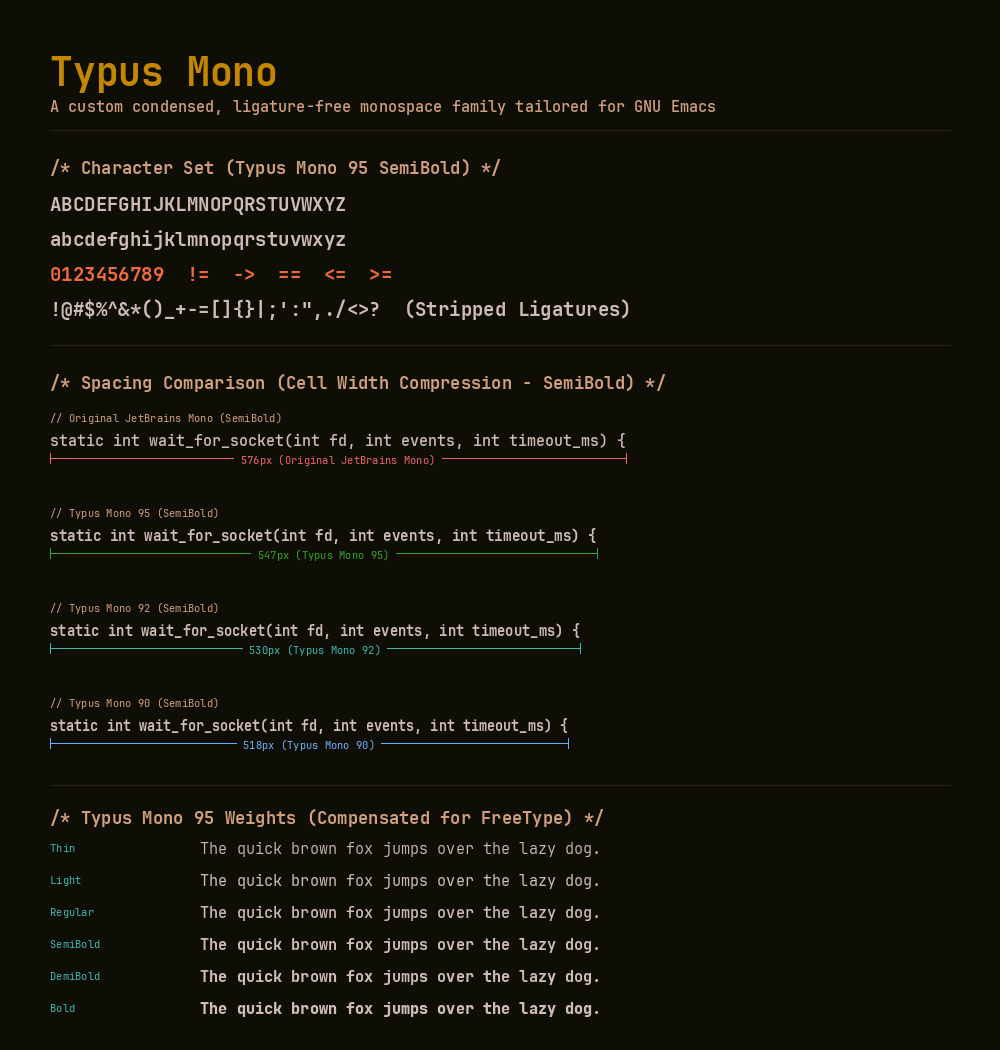
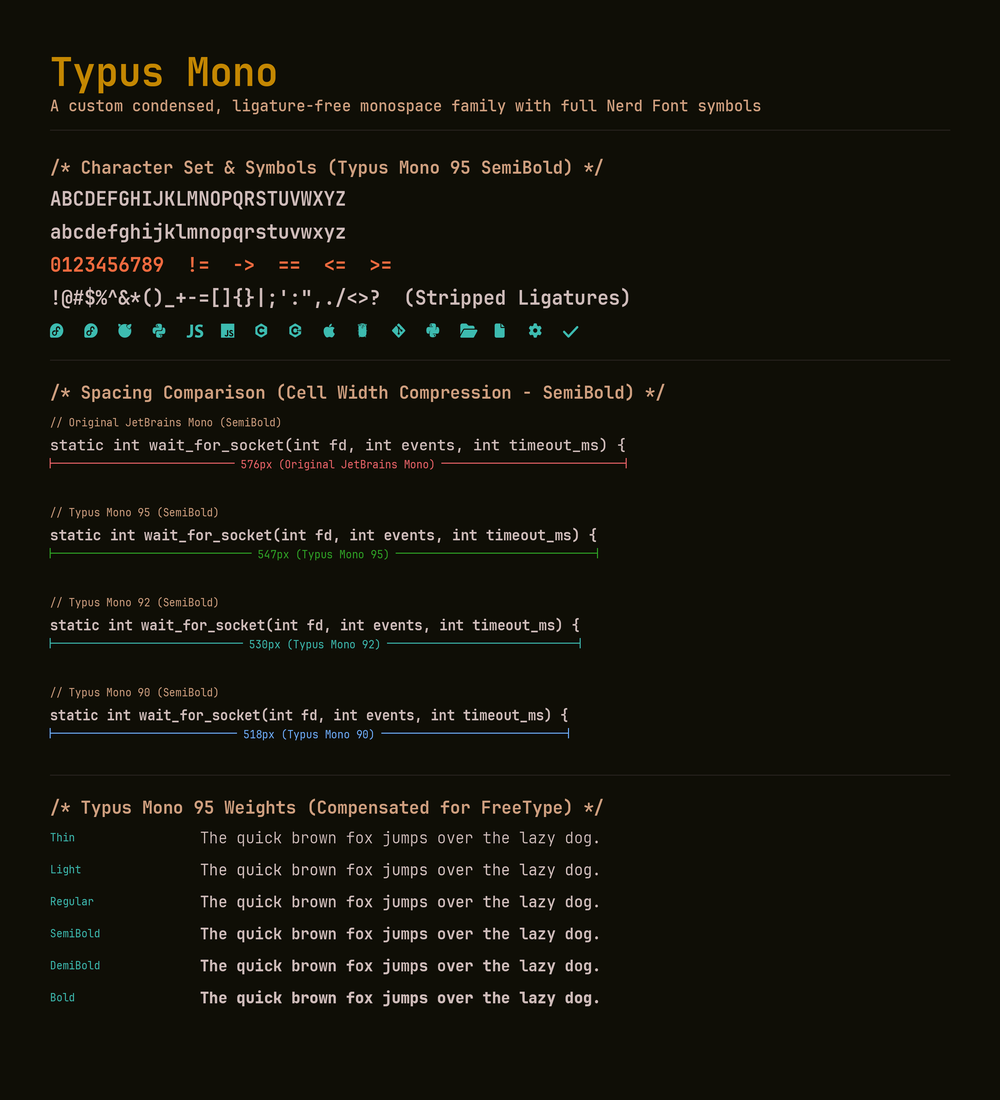
docs: enhance specimens with 3x supersampling, add anatomy grid
... and update README

- Add 3x sampling with Lanczos downsampling to generate_specimen.py
  for Retina rendering
- Add generate_grid_specimen.py creating grid_specimen.png (1000x1100)
  with 3x3 close-up terminal cell anatomy for Typus Mono
- Update README.md with side-by-side 50:50 preview and grid specimen
  display

Changed region(s): [[0.031, 0.3352, 0.682, 0.9752], [0.031, 0.061, 0.744, 0.3048]]

diff --git a/generate_specimen.py b/generate_specimen.py
@@ -43,19 +43,46 @@ def main():
     font_sb_92_path = os.path.join(repo_dir, "fonts/TypusMono92-SemiBold.ttf")
     font_sb_90_path = os.path.join(repo_dir, "fonts/TypusMono90-SemiBold.ttf")
 
-    title_font = ImageFont.truetype(font_sb_path, 40)
-    tagline_font = ImageFont.truetype(font_reg_path, 16)
-    section_title_font = ImageFont.truetype(font_sb_path, 18)
-    char_font = ImageFont.truetype(
-        font_sb_path, 20
-    )  # SemiBold for character set preview
+    S = 3  # 3x supersampling
+    base_w, base_h = 1000, 1100
+    w, h = base_w * S, base_h * S
 
-    code_font_orig = ImageFont.truetype(orig_path, 15)
-    code_font_typus_95 = ImageFont.truetype(font_sb_95_path, 15)
-    code_font_typus_92 = ImageFont.truetype(font_sb_92_path, 15)
-    code_font_typus_90 = ImageFont.truetype(font_sb_90_path, 15)
+    def draw_ruler_scaled(
+        draw, x, y, width, label, color_line="#4a5568", color_text="#a0aec0", font=None
+    ):
+        draw.line([(x, y), (x + width, y)], fill=color_line, width=1 * S)
+        draw.line([(x, y - 5 * S), (x, y + 5 * S)], fill=color_line, width=1 * S)
+        draw.line(
+            [(x + width, y - 5 * S), (x + width, y + 5 * S)],
+            fill=color_line,
+            width=1 * S,
+        )
+        text_w = draw.textlength(label, font=font)
+        draw.rectangle(
+            [
+                (x + width / 2 - text_w / 2 - 6 * S, y - 8 * S),
+                (x + width / 2 + text_w / 2 + 6 * S, y + 8 * S),
+            ],
+            fill="#0f0e06",
+        )
+        draw.text(
+            (x + width / 2 - text_w / 2, y - 6 * S),
+            label,
+            fill=color_text,
+            font=font,
+        )
 
-    ruler_font = ImageFont.truetype(font_light_path, 11)
+    title_font = ImageFont.truetype(font_sb_path, 40 * S)
+    tagline_font = ImageFont.truetype(font_reg_path, 16 * S)
+    section_title_font = ImageFont.truetype(font_sb_path, 18 * S)
+    char_font = ImageFont.truetype(font_sb_path, 20 * S)
+
+    code_font_orig = ImageFont.truetype(orig_path, 15 * S)
+    code_font_typus_95 = ImageFont.truetype(font_sb_95_path, 15 * S)
+    code_font_typus_92 = ImageFont.truetype(font_sb_92_path, 15 * S)
+    code_font_typus_90 = ImageFont.truetype(font_sb_90_path, 15 * S)
+
+    ruler_font = ImageFont.truetype(font_light_path, 11 * S)
 
     bg_color = "#0f0e06"
     fg_color = "#cfbcba"
@@ -68,23 +95,23 @@ def main():
     green_accent = "#2fa526"
     border_color = "#26211d"
 
-    img = Image.new("RGB", (1000, 1050), color=bg_color)
+    img = Image.new("RGB", (w, h), color=bg_color)
     draw = ImageDraw.Draw(img)
 
     # header
-    draw.text((50, 45), "Typus Mono", fill=keyword_color, font=title_font)
+    draw.text((50 * S, 45 * S), "Typus Mono", fill=keyword_color, font=title_font)
     draw.text(
-        (50, 95),
-        "A custom condensed, ligature-free monospace family tailored for GNU Emacs",
+        (50 * S, 95 * S),
+        "A custom condensed, ligature-free monospace family with full Nerd Font symbols",
         fill=comment_color,
         font=tagline_font,
     )
-    draw.line([(50, 130), (950, 130)], fill=border_color, width=1)
+    draw.line([(50 * S, 130 * S), (950 * S, 130 * S)], fill=border_color, width=1 * S)
 
     # character set
     draw.text(
-        (50, 155),
-        "/* Character Set (Typus Mono 95 SemiBold) */",
+        (50 * S, 155 * S),
+        "/* Character Set & Symbols (Typus Mono 95 SemiBold) */",
         fill=comment_color,
         font=section_title_font,
     )
@@ -92,17 +119,19 @@ def main():
     chars_line2 = "abcdefghijklmnopqrstuvwxyz"
     chars_line3 = "0123456789  !=  ->  ==  <=  >="
     chars_line4 = "!@#$%^&*()_+-=[]{}|;':\",./<>?  (Stripped Ligatures)"
+    chars_line5 = "                              "
 
-    draw.text((50, 190), chars_line1, fill=fg_color, font=char_font)
-    draw.text((50, 225), chars_line2, fill=fg_color, font=char_font)
-    draw.text((50, 260), chars_line3, fill=string_color, font=char_font)
-    draw.text((50, 295), chars_line4, fill=fg_color, font=char_font)
+    draw.text((50 * S, 185 * S), chars_line1, fill=fg_color, font=char_font)
+    draw.text((50 * S, 218 * S), chars_line2, fill=fg_color, font=char_font)
+    draw.text((50 * S, 251 * S), chars_line3, fill=string_color, font=char_font)
+    draw.text((50 * S, 284 * S), chars_line4, fill=fg_color, font=char_font)
+    draw.text((50 * S, 317 * S), chars_line5, fill=teal_color, font=char_font)
 
-    draw.line([(50, 345), (950, 345)], fill=border_color, width=1)
+    draw.line([(50 * S, 360 * S), (950 * S, 360 * S)], fill=border_color, width=1 * S)
 
     # spacing comparision
     draw.text(
-        (50, 370),
+        (50 * S, 380 * S),
         "/* Spacing Comparison (Cell Width Compression - SemiBold) */",
         fill=comment_color,
         font=section_title_font,
@@ -112,19 +141,19 @@ def main():
 
     # JetBrains Mono
     draw.text(
-        (50, 410),
+        (50 * S, 415 * S),
         "// Original JetBrains Mono (SemiBold)",
         fill=comment_color,
         font=ruler_font,
     )
-    draw.text((50, 430), code_line, fill=fg_color, font=code_font_orig)
+    draw.text((50 * S, 435 * S), code_line, fill=fg_color, font=code_font_orig)
     orig_w = int(draw.textlength(code_line, font=code_font_orig))
-    draw_ruler(
+    draw_ruler_scaled(
         draw,
-        50,
-        458,
+        50 * S,
+        463 * S,
         orig_w,
-        f"{orig_w}px (Original JetBrains Mono)",
+        f"{orig_w // S}px (Original JetBrains Mono)",
         color_line=red_accent,
         color_text=red_accent,
         font=ruler_font,
@@ -132,16 +161,19 @@ def main():
 
     # Typus Mono 95
     draw.text(
-        (50, 505), "// Typus Mono 95 (SemiBold)", fill=comment_color, font=ruler_font
+        (50 * S, 505 * S),
+        "// Typus Mono 95 (SemiBold)",
+        fill=comment_color,
+        font=ruler_font,
     )
-    draw.text((50, 525), code_line, fill=fg_color, font=code_font_typus_95)
+    draw.text((50 * S, 525 * S), code_line, fill=fg_color, font=code_font_typus_95)
     w_95 = int(draw.textlength(code_line, font=code_font_typus_95))
-    draw_ruler(
+    draw_ruler_scaled(
         draw,
-        50,
-        553,
+        50 * S,
+        553 * S,
         w_95,
-        f"{w_95}px (Typus Mono 95)",
+        f"{w_95 // S}px (Typus Mono 95)",
         color_line=green_accent,
         color_text=green_accent,
         font=ruler_font,
@@ -149,16 +181,19 @@ def main():
 
     # Typus Mono 92
     draw.text(
-        (50, 600), "// Typus Mono 92 (SemiBold)", fill=comment_color, font=ruler_font
+        (50 * S, 595 * S),
+        "// Typus Mono 92 (SemiBold)",
+        fill=comment_color,
+        font=ruler_font,
     )
-    draw.text((50, 620), code_line, fill=fg_color, font=code_font_typus_92)
+    draw.text((50 * S, 615 * S), code_line, fill=fg_color, font=code_font_typus_92)
     w_92 = int(draw.textlength(code_line, font=code_font_typus_92))
-    draw_ruler(
+    draw_ruler_scaled(
         draw,
-        50,
-        648,
+        50 * S,
+        643 * S,
         w_92,
-        f"{w_92}px (Typus Mono 92)",
+        f"{w_92 // S}px (Typus Mono 92)",
         color_line=teal_color,
         color_text=teal_color,
         font=ruler_font,
@@ -166,26 +201,29 @@ def main():
 
     # Typus Mono 90
     draw.text(
-        (50, 695), "// Typus Mono 90 (SemiBold)", fill=comment_color, font=ruler_font
+        (50 * S, 685 * S),
+        "// Typus Mono 90 (SemiBold)",
+        fill=comment_color,
+        font=ruler_font,
     )
-    draw.text((50, 715), code_line, fill=fg_color, font=code_font_typus_90)
+    draw.text((50 * S, 705 * S), code_line, fill=fg_color, font=code_font_typus_90)
     w_90 = int(draw.textlength(code_line, font=code_font_typus_90))
-    draw_ruler(
+    draw_ruler_scaled(
         draw,
-        50,
-        743,
+        50 * S,
+        733 * S,
         w_90,
-        f"{w_90}px (Typus Mono 90)",
+        f"{w_90 // S}px (Typus Mono 90)",
         color_line=blue_accent,
         color_text=blue_accent,
         font=ruler_font,
     )
 
-    draw.line([(50, 785), (950, 785)], fill=border_color, width=1)
+    draw.line([(50 * S, 775 * S), (950 * S, 775 * S)], fill=border_color, width=1 * S)
 
     # weight showcase
     draw.text(
-        (50, 805),
+        (50 * S, 795 * S),
         "/* Typus Mono 95 Weights (Compensated for FreeType) */",
         fill=comment_color,
         font=section_title_font,
@@ -200,17 +238,16 @@ def main():
         ("Bold", font_bold_path, fg_color),
     ]
 
-    y_offset = 840
+    y_offset = 830 * S
     for w_name, w_path, w_color in weights_info:
-        w_font = ImageFont.truetype(w_path, 16)
-        # weight name on the left
-        draw.text((50, y_offset), w_name, fill=teal_color, font=ruler_font)
-        # pangram on the right
+        w_font = ImageFont.truetype(w_path, 16 * S)
+        draw.text((50 * S, y_offset), w_name, fill=teal_color, font=ruler_font)
         sample_text = "The quick brown fox jumps over the lazy dog."
-        draw.text((200, y_offset - 3), sample_text, fill=w_color, font=w_font)
-        y_offset += 32
+        draw.text((200 * S, y_offset - 3 * S), sample_text, fill=w_color, font=w_font)
+        y_offset += 32 * S
 
-    img.save(output_path)
+    final_img = img.resize((base_w, base_h), Image.Resampling.LANCZOS)
+    final_img.save(output_path, quality=95)
     print("Preview generated successfully!")
 
 

diff --git a/generate_grid_specimen.py b/generate_grid_specimen.py
@@ -1,0 +1,126 @@
+#!/usr/bin/env python3
+"""
+Generate a 3x3 close-up monospace cell grid specimen for Typus Mono.
+Showcases character anatomy, baseline alignment, and cell proportions
+across 'T', 'y', 'p', 'u', 's', 'M', 'o', 'n', 'o' in a 1000x1100 layout.
+"""
+
+import os
+from PIL import Image, ImageDraw, ImageFont
+
+
+def main():
+    repo_dir = os.path.expanduser("~/Dokumenty/GitHub/typus-fonts")
+    font_path = os.path.join(repo_dir, "fonts/TypusMono92-Regular.ttf")
+    font_bold_path = os.path.join(repo_dir, "fonts/TypusMono92-Bold.ttf")
+    output_path = os.path.join(repo_dir, "grid_specimen.png")
+
+    S = 3
+    BASE_W, BASE_H = 1000, 1100
+    W, H = BASE_W * S, BASE_H * S
+
+    img = Image.new("RGB", (W, H), color="#0f0e06")
+    draw = ImageDraw.Draw(img)
+
+    header_font = ImageFont.truetype(font_bold_path, 32 * S)
+    sub_font = ImageFont.truetype(font_path, 15 * S)
+    guide_font = ImageFont.truetype(font_path, 12 * S)
+
+    draw.text(
+        (50 * S, 45 * S),
+        "Typus Mono 92 // Glyph Anatomy Grid",
+        fill="#c48702",
+        font=header_font,
+    )
+    draw.text(
+        (50 * S, 95 * S),
+        'Close-up monospace cell alignment across "T y p u s M o n o" (Semi-Condensed)',
+        fill="#cf9f7f",
+        font=sub_font,
+    )
+    draw.line([(50 * S, 130 * S), (950 * S, 130 * S)], fill="#26211d", width=1 * S)
+
+    grid_x0 = 50 * S
+    grid_y0 = 160 * S
+    grid_w = 900 * S
+    grid_h = 880 * S
+
+    cols, rows = 3, 3
+    gap = 16 * S
+    cell_w = (grid_w - (cols - 1) * gap) // cols
+    cell_h = (grid_h - (rows - 1) * gap) // rows
+
+    letters = [["T", "y", "p"], ["u", "s", "M"], ["o", "n", "o"]]
+
+    font_size = 190 * S
+    letter_font = ImageFont.truetype(font_path, font_size)
+
+    cell_bg = "#14120a"
+    cell_border = "#2c251d"
+    guide_color = "#383028"
+    baseline_guide = "#284d38"
+    text_color = "#f5efe0"
+
+    for r in range(rows):
+        for c in range(cols):
+            char = letters[r][c]
+            x0 = grid_x0 + c * (cell_w + gap)
+            y0 = grid_y0 + r * (cell_h + gap)
+            x1 = x0 + cell_w
+            y1 = y0 + cell_h
+
+            draw.rectangle(
+                [x0, y0, x1, y1], fill=cell_bg, outline=cell_border, width=1 * S
+            )
+
+            baseline_y = y0 + round(cell_h * 0.73)
+            cap_y = baseline_y - round(font_size * 0.70)
+
+            draw.line(
+                [(x0 + 8 * S, cap_y), (x1 - 8 * S, cap_y)],
+                fill=guide_color,
+                width=1 * S,
+            )
+            draw.line(
+                [(x0 + 8 * S, baseline_y), (x1 - 8 * S, baseline_y)],
+                fill=baseline_guide,
+                width=1 * S,
+            )
+
+            char_w = draw.textlength(char, font=letter_font)
+            char_x = x0 + (cell_w - char_w) / 2.0
+
+            draw.text(
+                (char_x, baseline_y),
+                char,
+                fill=text_color,
+                font=letter_font,
+                anchor="ls",
+            )
+
+            draw.text(
+                (x0 + 12 * S, y0 + 10 * S),
+                f"U+{ord(char):04X}",
+                fill="#c48702",
+                font=guide_font,
+            )
+            draw.text(
+                (x1 - 65 * S, y0 + 10 * S),
+                "552 UPM",
+                fill="#3dbbb0",
+                font=guide_font,
+            )
+            draw.text(
+                (x0 + 12 * S, baseline_y + 4 * S),
+                "baseline",
+                fill="#3d7350",
+                font=guide_font,
+            )
+
+    final_img = img.resize((BASE_W, BASE_H), Image.Resampling.LANCZOS)
+    final_img.save(output_path, quality=95)
+    print(f"Grid specimen ({BASE_W}x{BASE_H}) generated successfully!")
+
+
+if __name__ == "__main__":
+    main()

diff --git a/README.md b/README.md
@@ -4,7 +4,10 @@
 
 It serves as my personal daily driver. I maintain this repository as a central, easily accessible storage for my setups, though others who share my exact aesthetic preferences and layout constraints may find it useful.
 
-![Typus Mono Specimen and Spacing Comparison](preview.png)
+<p align="center">
+  <img src="preview.png" alt="Typus Mono Specimen and Spacing Comparison" width="49.5%">
+  <img src="grid_specimen.png" alt="Typus Mono Glyph Anatomy Grid" width="49.5%">
+</p>
 
 ## Motivation
 
